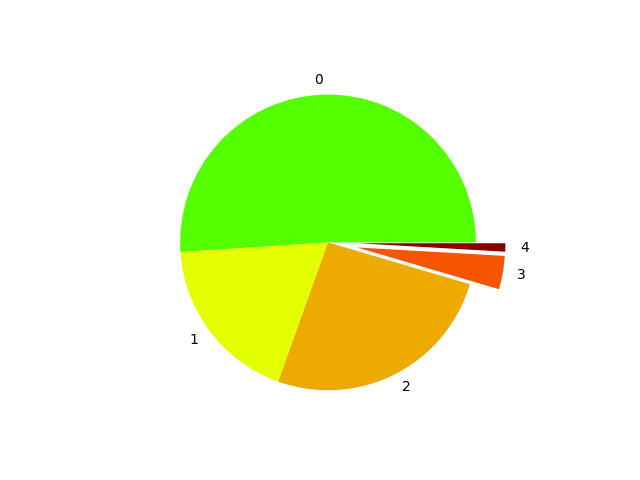
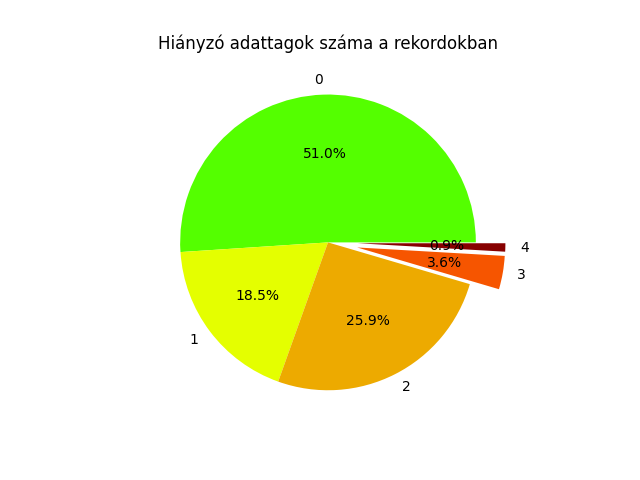
killme

diff --git a/analysis.py b/analysis.py
@@ -9,14 +9,16 @@ def invalids_pie_chart():
     df["invalids"] = df.isin([0, 0.0, np.nan]).sum(axis=1)
     counts = df.value_counts(["invalids"]).to_frame().reset_index().sort_values("invalids")
 
+    #plt.bar_label("asd")
     fig, ax = plt.subplots()
     ax.pie(
         counts["count"], 
         labels=counts["invalids"],
         colors=["#54ff00", "#e4ff00", "#edaa00", "#f65500", "#870000"],
-        explode=(0, 0, 0, 0.2, 0.2)
+        explode=(0, 0, 0, 0.2, 0.2),
+        autopct='%1.1f%%'
         )
-
+    ax.set_title("Hiányzó adattagok száma a rekordokban")
     plt.savefig("counts.png")
     
     
@@ -26,10 +28,87 @@ def invalid_records_bar_chart():
     records = df.isin([0, 0.0, np.nan]).sum(axis=0).to_frame().reset_index().rename({0:"invalids"}, axis=1)
     records["valids"] = df.shape[0] - records["invalids"]
     
+    plt.title("Érvényes adatok aránya")
     plt.bar(records["index"], records["invalids"], color="#cc0000")
     plt.bar(records["index"], records["valids"], bottom=records["invalids"], color="#009900")
     plt.savefig("bar.png")
     
+
+def dpf_histogram():
+    df = pd.read_csv("diabetes.csv")
+    fig, ax = plt.subplots()
+    plt.xlabel("DPF")
+    plt.ylabel("Rekordok száma")
+    ax.hist(
+        df['DiabetesPedigreeFunction'],
+        bins=100,
+        histtype='stepfilled',
+    )
+    ax.set_title("DPF eloszlása az adathalmazban")
+    plt.savefig("hist.png")
+    
+def insulin_histogram():
+    df = pd.read_csv("diabetes.csv")
+    df["invalids"] = df[["Glucose", "BloodPressure", "SkinThickness", "Insulin", "BMI"]].isin([0, 0.0, np.nan]).sum(axis=1)
+    df.drop(df[df["invalids"] >= 3].index, inplace=True)
+    
+    df.drop(df[df["Insulin"] == 0.0].index, inplace=True)
+    
+    fig, ax = plt.subplots()
+    plt.xlabel("Inzulin")
+    plt.ylabel("Rekordok száma")
+    ax.hist(
+        df['Insulin'],
+        bins=100,
+        histtype='stepfilled',
+    )
+    ax.axvline(df['Insulin'].mean(), color='r', linestyle='dashed', linewidth=2)
+    ax.set_title("Inzulin eloszlása az adathalmazban")
+    plt.savefig("insulin_hist.png")
+    
+def features_histogram():
+    df = pd.read_csv("diabetes.csv")
+    df = df.iloc[:, :-1]
+    for col in df.columns:
+        fig, ax = plt.subplots()
+        plt.xlabel(col)
+        plt.ylabel("Rekordok száma")
+        ax.hist(
+            df[col],
+            bins=80,
+            histtype='stepfilled',
+        )
+        ax.axvline(df[col].mean(), color='r', linestyle='dashed', linewidth=2)
+        ax.set_title(f"{col} oszlop eloszlása")
+        plt.savefig(f"features/{col}_hist.png")
+    
+    
+def skin_histogram():
+    df = pd.read_csv("diabetes.csv")
+    df["invalids"] = df[["Glucose", "BloodPressure", "SkinThickness", "Insulin", "BMI"]].isin([0, 0.0, np.nan]).sum(axis=1)
+    df.drop(df[df["invalids"] >= 3].index, inplace=True)
+    
+    df.drop(df[df["SkinThickness"] == 0.0].index, inplace=True)
+    
+    fig, ax = plt.subplots()
+    plt.xlabel("Bőrredővastagság")
+    plt.ylabel("Rekordok száma")
+    ax.hist(
+        df['SkinThickness'],
+        bins=80,
+        histtype='stepfilled',
+    )
+    ax.axvline(df['SkinThickness'].mean(), color='r', linestyle='dashed', linewidth=2)
+    ax.set_title("Bőrredővastagság eloszlása az adathalmazban")
+    plt.savefig("skin_hist.png")
+    
+def outcome_bar():
+    df = pd.read_csv("diabetes.csv")
+    plt.title("Végkimenetek eloszlása")
+    plt.bar(['Negatív', 'Pozitív'], df['Outcome'].value_counts().sort_index())
+    plt.savefig('outcome_bar.png')
+    
+    print(df['Outcome'].value_counts().sort_index())
     
 if __name__ == "__main__":
-    invalid_records_bar_chart()
+    outcome_bar()

diff --git a/pima.py b/pima.py
@@ -1,14 +1,62 @@
 import streamlit as st
 from kaggle.api.kaggle_api_extended import KaggleApi
 import pandas as pd
+import numpy as np
+from scipy.stats import uniform
+from sklearn.model_selection import train_test_split, GridSearchCV, cross_val_score
+from sklearn.linear_model import LogisticRegression
+from sklearn.metrics import accuracy_score, recall_score, precision_score, f1_score, classification_report, confusion_matrix, make_scorer
+
 
 if __name__ == "__main__":
-    api = KaggleApi()
-    api.authenticate()
-    api.dataset_download_files('uciml/pima-indians-diabetes-database', unzip=True)
-
+    # Getting the dataset
+    # api = KaggleApi()
+    # api.authenticate()
+    # api.dataset_download_files('uciml/pima-indians-diabetes-database', unzip=True)
     df = pd.read_csv('diabetes.csv')
+    
+    # Quick rename
+    df.rename(columns={"DiabetesPedigreeFunction":"DPF"}, inplace=True)
+    
+    # Drop 3, 4 invalid records
+    df["invalids"] = df[["Glucose", "BloodPressure", "SkinThickness", "Insulin", "BMI"]].isin([0, 0.0, np.nan]).sum(axis=1)
+    df.drop(df[df["invalids"] >= 3].index, inplace=True)
+    df.drop(["invalids"], axis=1, inplace=True)
+    
+    # Replace zeroes with column avg on affected datapoints
+    df['Glucose'].replace(0, np.NaN, inplace=True)
+    df['BloodPressure'].replace(0, np.NaN, inplace=True)
+    df['SkinThickness'].replace(0, np.NaN, inplace=True)
+    df['Insulin'].replace(0, np.NaN, inplace=True)
+    df['BMI'].replace(0, np.NaN, inplace=True)
+    df.fillna(df.mean(), inplace=True)
+    
+    # Split that bih
+    X = df.drop('Outcome', axis=1)
+    y = df['Outcome']
+    X_train, X_test, y_train, y_test = train_test_split(X, y, test_size=0.1)
 
-    st.title("Pima indians diabetes regression")
+    # Logreg + optimize
+    model = LogisticRegression(solver='lbfgs', penalty='l2', max_iter=1000)
+    param_grid = {
+        'C': [0.01],
+        'penalty': ['l2']
+    }
+    grid_search = GridSearchCV(model, param_grid, scoring='recall', cv=100)
+    grid_search.fit(X_train, y_train)
+
+    # Get the best parameters from the grid search
+    best_params = grid_search.best_params_
+
+    # Print the best parameters
+    print("Best Parameters:", best_params)
+
+    # Use the best parameters to create the final logistic regression model
+    final_model = LogisticRegression(C=best_params['C'], penalty=best_params['penalty'], max_iter=1000)
+
+    # Train the final model on the entire training set
+    final_model.fit(X_train, y_train)
+
+    st.title("DPF regresszió")
     st.selectbox("What field should we predict for?", df.columns.sort_values())
     
